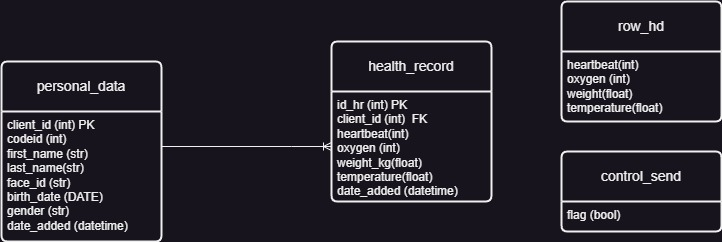
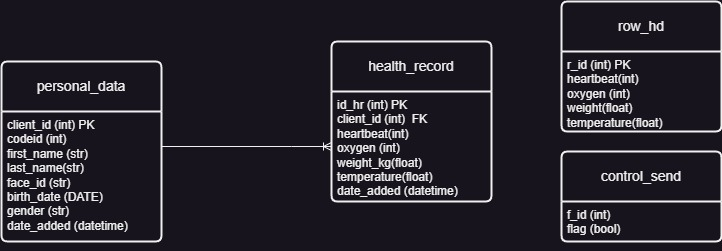
The module is completed.

diff --git a/c_model.py b/c_model.py
@@ -45,8 +45,8 @@ class FaceRec:
             for s in temp:
                 temp_str += str(s) + ', '
 
-            sql_item = 'codeid, face_id'
-            sql_value = f'{codeid}, "{temp_str}"'
+            sql_item = 'codeid, face_id, date_added'
+            sql_value = f'{codeid}, "{temp_str}", NOW()'
 
             if fname:
                 sql_item += ', first_name'
@@ -82,7 +82,7 @@ class FaceRec:
             print('Error in write_data')
             return False
               
-    def raed_face_id_data(self): # read_data
+    def raed_face_id_data(self): 
         """read face id from database."""
         
         self.id_data.clear()
@@ -137,10 +137,11 @@ class FaceRec:
                         result = i
 
             return self.id_data[result], loc, temp
-            
-    def query(self, id):
+
+    def check_flag(self): 
         """
-        for test
+        check flag
+        return: record
         """
 
         con = DB.connect(
@@ -149,14 +150,72 @@ class FaceRec:
                     password=self.PASSWORD,
                     database=self.DATABASE
                         )
+        
         cur = con.cursor()
 
-        cur.execute("SELECT person_id, code_id FROM person WHERE person_id = ?", (id,))
-        record = cur.fetchall()
+        # read FLAG
+        cur.execute(f'SELECT * FROM control_send ORDER BY f_id DESC LIMIT 1;')
+        flag = cur.fetchone()
+
+        if flag[1] == 0:
+            cur.execute(f'SELECT * FROM row_hd ORDER BY r_id DESC LIMIT 1;')
+            record = cur.fetchone()
+            if record[1] and record[2] and record[3] and record[4]:
+                cur.close()
+                con.close()
+                return record
+
+        else:
+            cur.close()
+            con.close()
+            return None
+
+    def write_health_record(self, id, record):
+            """submit buttom"""
+
+            con = DB.connect(
+                    host=self.HOSTNAME,
+                    user=self.USER,
+                    password=self.PASSWORD,
+                    database=self.DATABASE
+                        )
+        
+            cur = con.cursor()
+
+            cur.execute(f'INSERT INTO health_record (client_id, heartbeat, oxygen, weight_kg, temperature, date_added) VALUES ({id}, {record[1]}, {record[2]}, {record[3]}, {record[4]}, NOW());')
+            con.commit()
+
+            cur.execute(f'DELETE FROM row_hd WHERE r_id = {record[0]};')
+            con.commit()
+
+            # cur.execute('DELETE FROM control_send ORDER BY f_id DESC LIMIT 1;') # 2
+
+            cur.execute(f'INSERT INTO control_send (flag) VALUES (1);')
+            con.commit()
+
+            cur.close()
+            con.close()
+
+    def query_one_client(self, id): 
+        """
+        querry data from health_record all record for one client
+        """
+
+        con = DB.connect(
+                    host=self.HOSTNAME,
+                    user=self.USER,
+                    password=self.PASSWORD,
+                    database=self.DATABASE
+                        )
+        
+        cur = con.cursor()
+
+        cur.execute("SELECT * FROM health_record WHERE client_id = ?", (id,))
+        records = cur.fetchall()
         cur.close()
         con.close()
 
-        return record[0][0], record[0][1]
+        return records
 
     def check_data(self, codeid):
         """codeid: id
